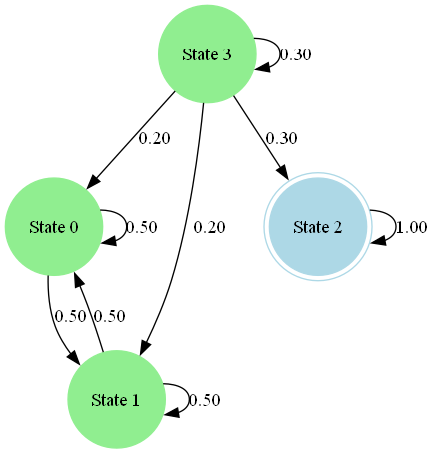
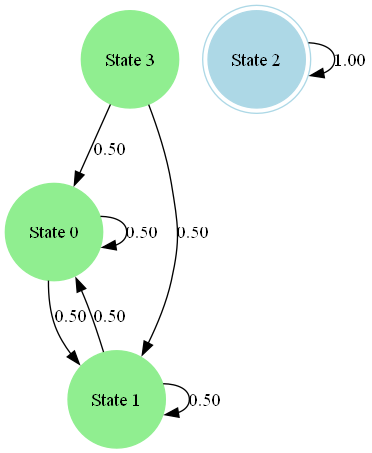
States start counting from 1 instead of 0 and minimized classes show if they are terminating

diff --git a/demo.py b/demo.py
@@ -26,7 +26,7 @@ def input_markov_chain():
     print("Enter a column vector (0s and 1s) to indicate which states are terminating:")
     terminating_vector = []
     for i in range(num_states):
-        val = int(input(f"Is state {i} terminating? (1 for yes, 0 for no): "))
+        val = int(input(f"Is state {i + 1} terminating? (1 for yes, 0 for no): "))  # Start counting from 1
         if val not in [0, 1]:
             raise ValueError("Only 0 or 1 is allowed.")
         terminating_vector.append(val)
@@ -68,17 +68,19 @@ def refine_relation(R, transition_matrix, terminating_vector):
 
     return R
 
-def compute_equivalence_classes(R, num_states):
+def compute_equivalence_classes(R, num_states, terminating_vector):
     """
     Construct equivalence classes from the final bisimulation relation.
+    Determine if an equivalence class is terminating.
     """
     equivalence_classes = {}
     state_class_map = {}
+    class_termination_status = {}
 
     for x in range(num_states):
         found = False
         for class_id, class_states in equivalence_classes.items():
-            if (x, next(iter(class_states))) in R:  # Check if x is related to an existing class
+            if (x, next(iter(class_states))) in R:  # If x is related to an existing class
                 equivalence_classes[class_id].add(x)
                 state_class_map[x] = class_id
                 found = True
@@ -88,7 +90,12 @@ def compute_equivalence_classes(R, num_states):
             equivalence_classes[new_class_id] = {x}
             state_class_map[x] = new_class_id
 
-    return equivalence_classes, state_class_map
+    # Determine which equivalence classes are terminating
+    for class_id, class_states in equivalence_classes.items():
+        class_termination_status[class_id] = any(terminating_vector[state] == 1 for state in class_states)
+
+    return equivalence_classes, state_class_map, class_termination_status
+
 
 def compute_minimized_transition_matrix(transition_matrix, equivalence_classes, state_class_map):
     """
@@ -106,7 +113,7 @@ def compute_minimized_transition_matrix(transition_matrix, equivalence_classes, 
 
     return minimized_T
 
-def visualize_markov_chain(matrix, state_names, terminating_vector, filename):
+def visualize_markov_chain(matrix, state_names, terminating_status, filename):
     """
     Visualize a Markov chain using Graphviz.
     """
@@ -114,10 +121,10 @@ def visualize_markov_chain(matrix, state_names, terminating_vector, filename):
 
     # Add nodes
     for i, state in enumerate(state_names):
-        if terminating_vector[i] == 1:
-            dot.node(state, shape='circle', style='filled', peripheries='2', color='lightblue')
+        if terminating_status[i]:  # Use class termination status
+            dot.node(state, shape='circle', style='filled', peripheries='2', color='lightblue')  # Double circle for terminating
         else:
-            dot.node(state, shape='circle', style='filled', color='lightgreen')
+            dot.node(state, shape='circle', style='filled', color='lightgreen')  # Single circle for normal states
     
     # Add edges
     for i, state_from in enumerate(state_names):
@@ -128,7 +135,6 @@ def visualize_markov_chain(matrix, state_names, terminating_vector, filename):
     dot.render(filename, view=True)
 
 if __name__ == "__main__":
-    # Step 1: User Input
     transition_matrix, terminating_vector = input_markov_chain()
     num_states = len(transition_matrix)
 
@@ -138,8 +144,8 @@ if __name__ == "__main__":
     # Step 3: Apply Refinement
     R_n = refine_relation(R_0, transition_matrix, terminating_vector)
 
-    # Step 4: Compute Equivalence Classes
-    equivalence_classes, state_class_map = compute_equivalence_classes(R_n, num_states)
+    # Step 4: Compute Equivalence Classes and Termination Status
+    equivalence_classes, state_class_map, class_termination_status = compute_equivalence_classes(R_n, num_states, terminating_vector)
 
     # Step 5: Compute Minimized Transition Matrix
     minimized_T = compute_minimized_transition_matrix(transition_matrix, equivalence_classes, state_class_map)
@@ -149,15 +155,16 @@ if __name__ == "__main__":
     visualize_markov_chain(transition_matrix, original_state_names, terminating_vector, "original_markov_chain")
 
     minimized_state_names = [f"Class {i}" for i in range(len(equivalence_classes))]
-    visualize_markov_chain(minimized_T, minimized_state_names, np.zeros(len(equivalence_classes)), "minimized_markov_chain")
+    visualize_markov_chain(minimized_T, minimized_state_names, class_termination_status, "minimized_markov_chain")
 
     print("\nOriginal Transition Matrix:")
     print(transition_matrix)
 
     print("\nEquivalence Classes:")
     for class_id, class_states in equivalence_classes.items():
-        print(f"Class {class_id}: {class_states}")
+        print(f"Class {class_id}: {class_states}, Terminating: {class_termination_status[class_id]}")
 
     print("\nMinimized Transition Matrix:")
     print(minimized_T)
+
 
